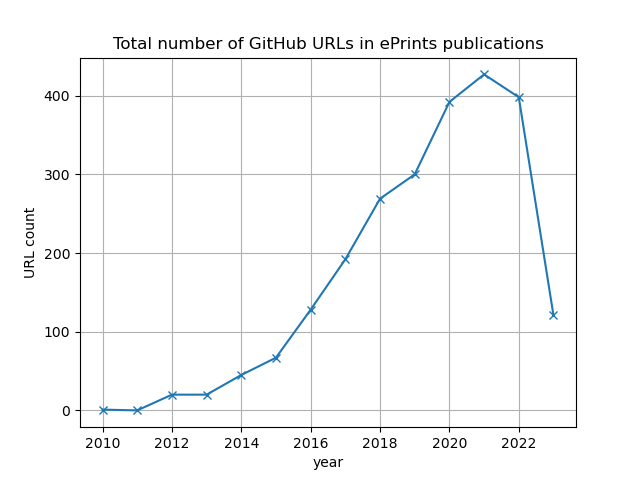
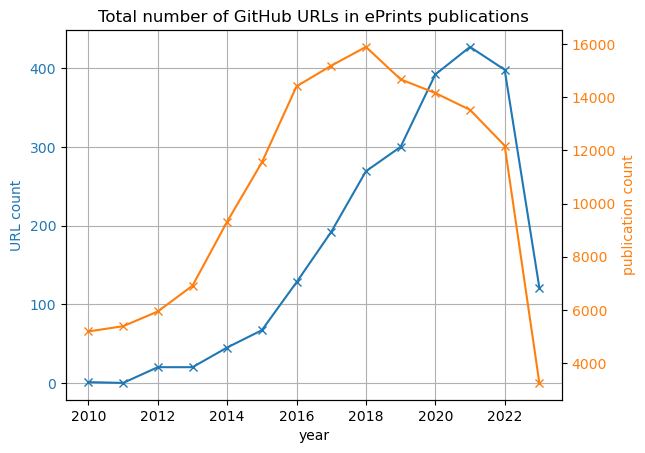
implemented #50

diff --git a/data/analysis/notes.md b/data/analysis/notes.md
@@ -78,11 +78,23 @@
 
 ### ePrints
 
+Code for these plots is in [`analysis/eprints.ipynb`](../../analysis/eprints.ipynb).
+
 <img src="./overall/github_in_eprints.png" width="600"/>
+
+Method: Group dataset by year, count number of GitHub links found across all publications of that year.
 
 <img src="./overall/avg_github_in_eprints.png" width="600"/>
 
+Method: First, count the number of GitHub links found in each publication separately.
+Then, group by year and report the mean.
+
 <img src="./overall/min_one_github_in_eprints.png" width="800"/>
+
+Method: Group dataset by year and count how many publications contained at least one GitHub link.
+Those that did are displayed in orange bars, those that did not contain a single link are shown in blue bars.
+Note that the y-axis scales logarithmically.
+On top of the bars is the percentage of the total number of publications represented by the bar.
 
 ### GitHub
 
